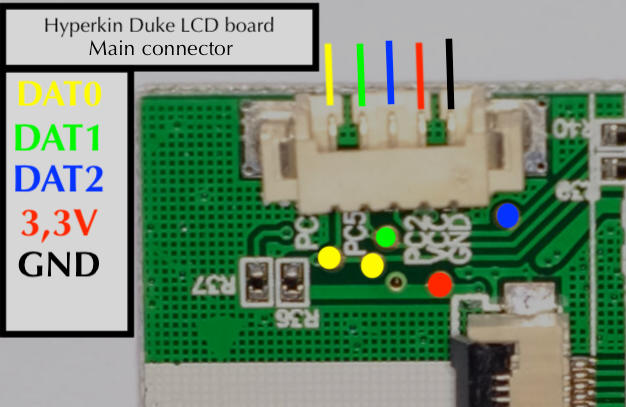
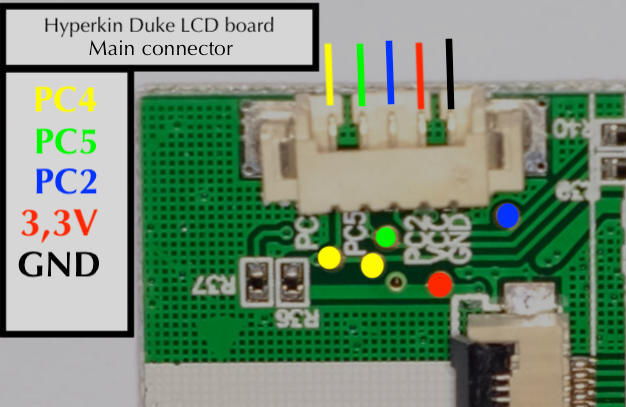
Correct pin names

Changed region(s): [[0.0, 0.1769, 0.1821, 0.5012]]

diff --git a/photos.md b/photos.md
@@ -16,4 +16,4 @@
 
 Info:
 
-Pull DAT0 HIGH for a short period (10ms) to play bootanim
+Pull PC4 HIGH for a short period (10ms) to play bootanim
